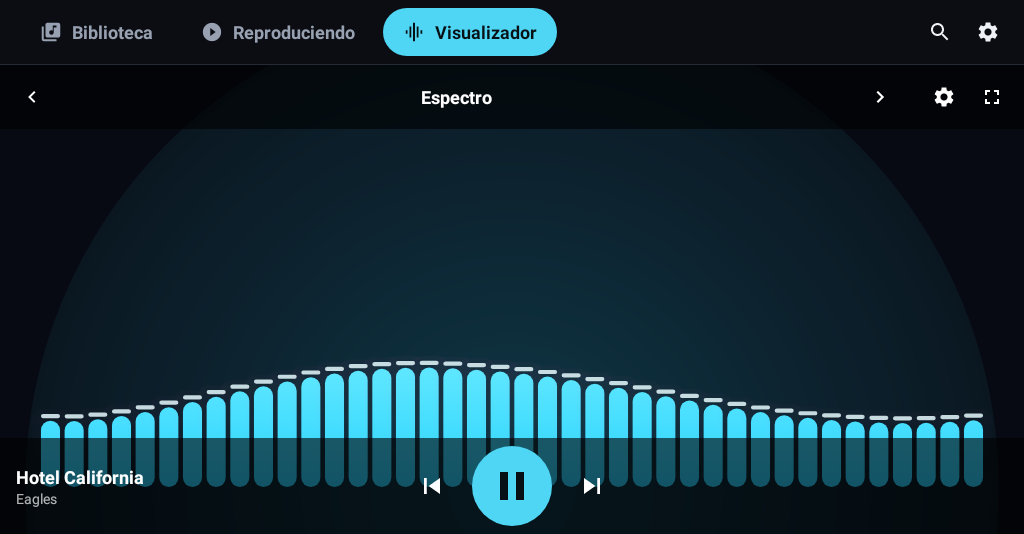
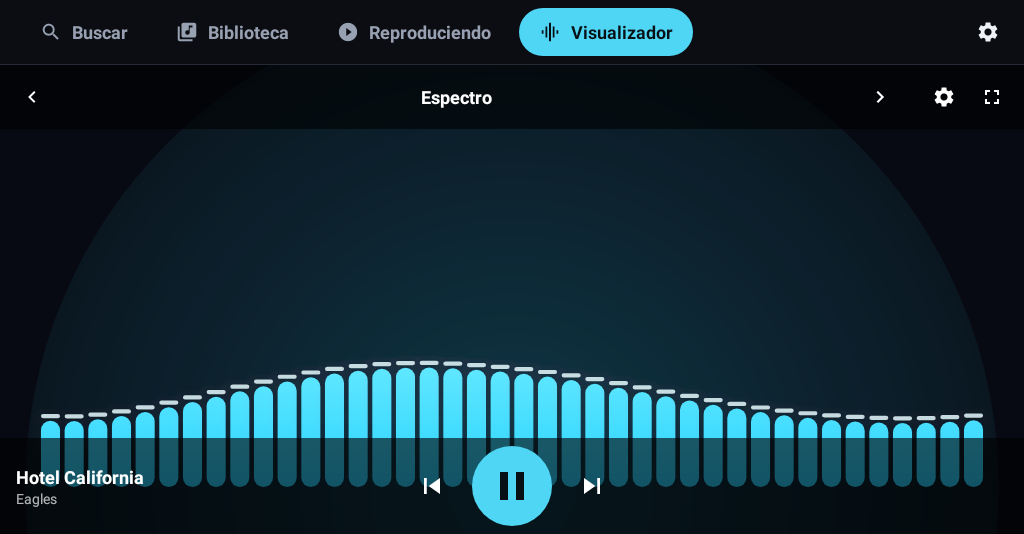
Docs: capturas con Buscar al inicio de la barra
Claude-Session: https://claude.ai/code/session_012dZvHdVuUJNBMhQ49X6f2G

Changed region(s): [[0.0938, 0.0, 0.6875, 0.1199], [0.0312, 0.03, 0.0625, 0.0899], [0.9062, 0.03, 0.9375, 0.0599]]

diff --git a/README.md b/README.md
@@ -85,7 +85,7 @@ la app funciona como siempre.
 
 **0.12.0:** crossfade (Ajustes ▸ Reproducción): mezcla el final de una canción con el principio de
 la siguiente, de 2 a 12 segundos, sin silencio entre ellas. Interfaz rediseñada para el espacio útil real del estéreo
-(1024×534): sin raíl lateral, secciones en una barra superior con Buscar y Ajustes, y carátula
+(1024×534): sin raíl lateral, secciones en una barra superior (Buscar primero, Ajustes a la derecha), y carátula
 grande en «Reproduciendo».
 
 **Funciones:** biblioteca de música local (canciones,
